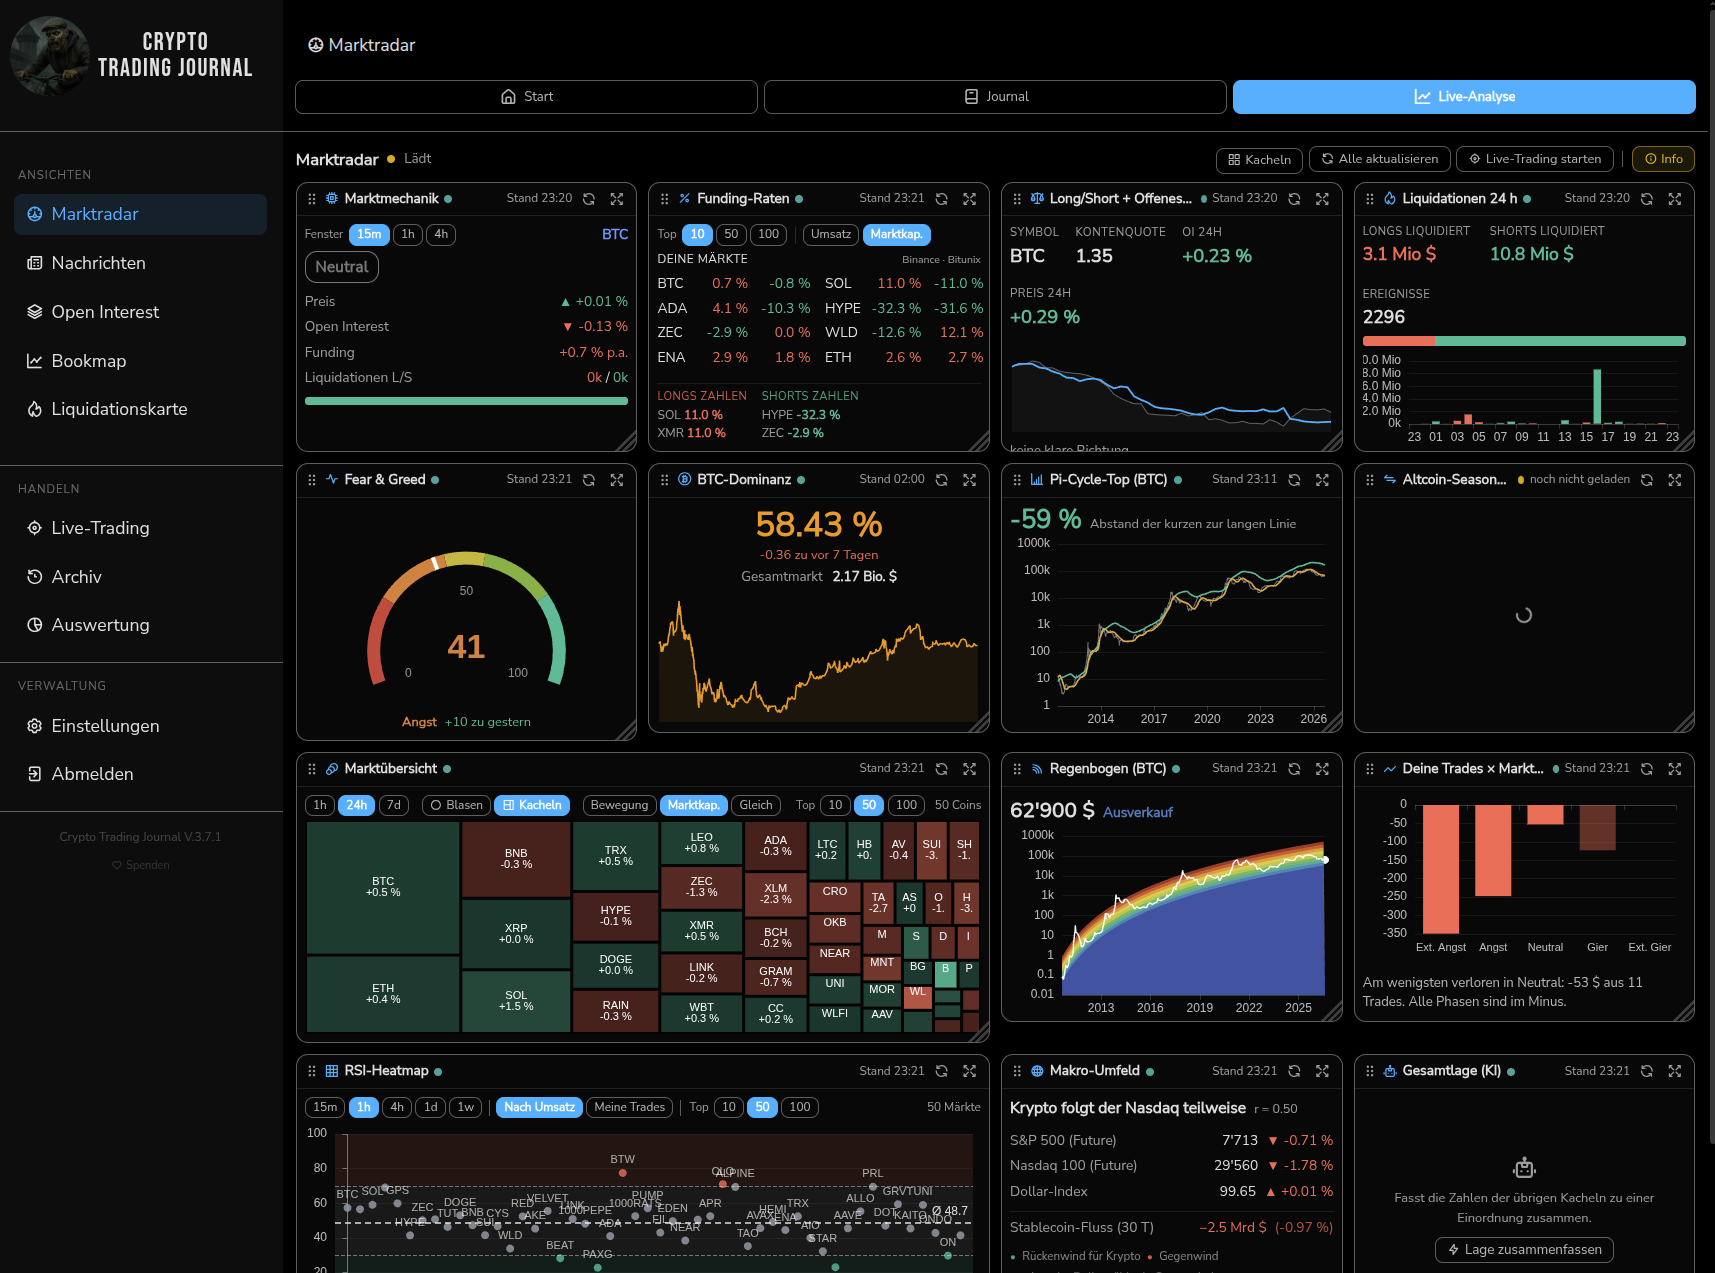
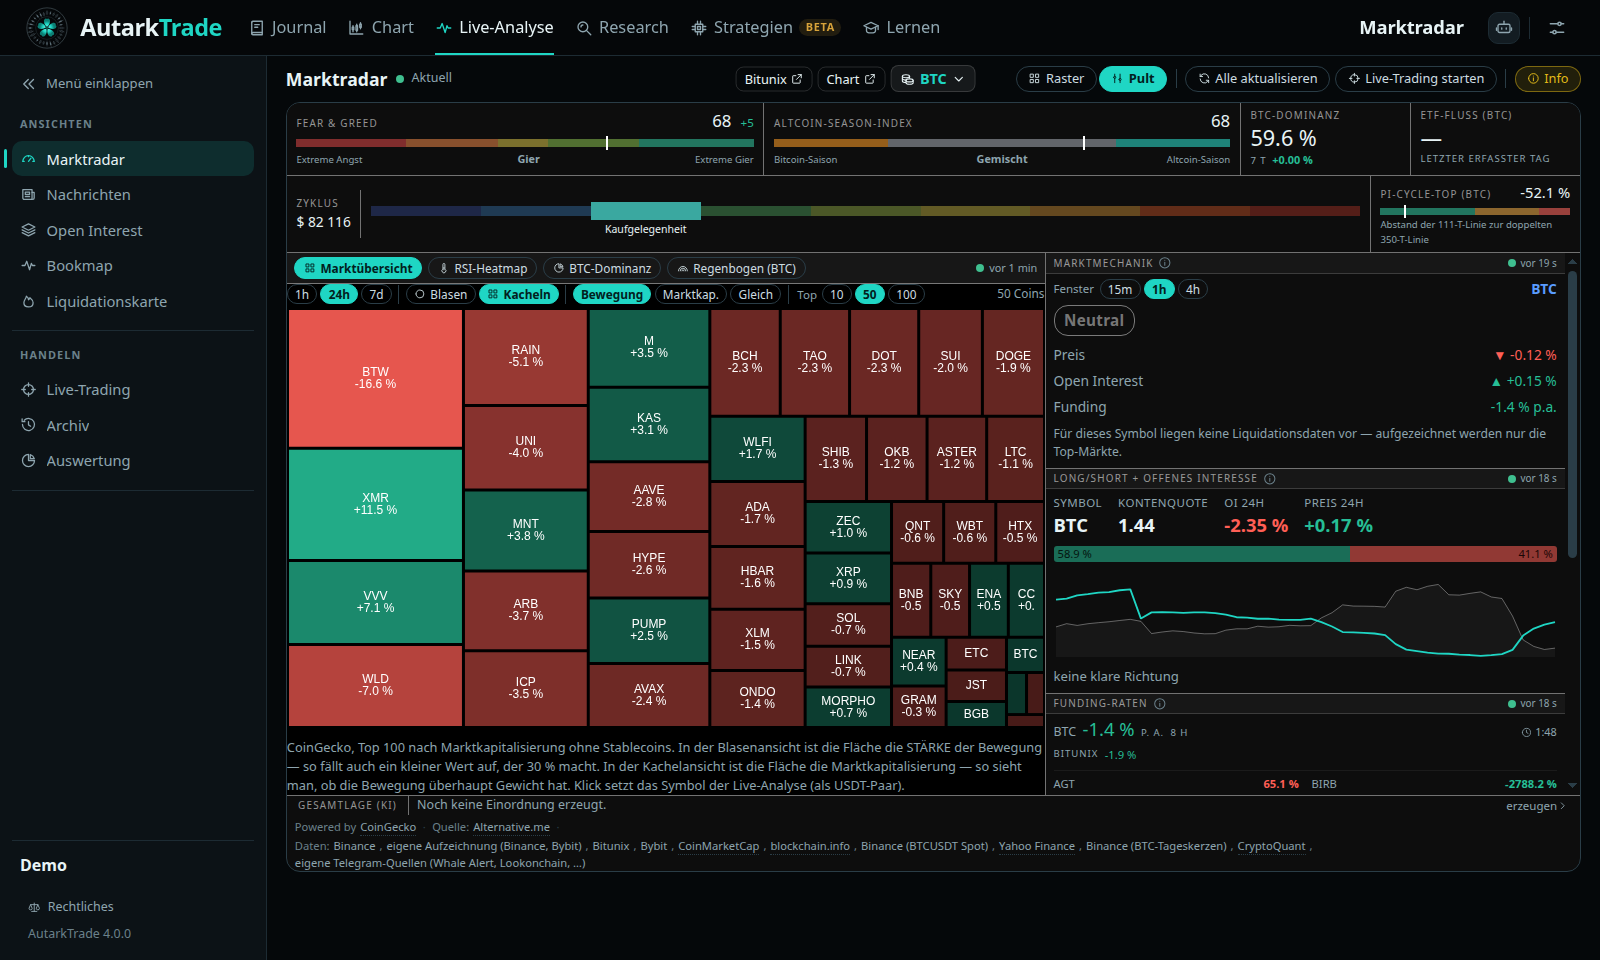
README: neue Screenshots aus einer Demo-Installation (synthetische Trades)
Chart-Arbeitsplatz, Journal-Dashboard, Marktradar, Kalender und zwei
Handy-Ansichten; erzeugt in einem Wegwerf-Container mit SQLite und den
Tageszeilen des Golden Masters — keine echten Kontodaten.

diff --git a/README.md b/README.md
@@ -17,15 +17,20 @@ Vue 3 + Express, SQLite or PostgreSQL.
 
 ## Screenshots
 
-![Dashboard — P&L overview, win rate, fees](assets/screenshots/dashboard.png)
+*All screenshots show a demo installation with synthetic trades — no real account data.*
 
-![Trading performance charts with MFE analysis](assets/screenshots/performance.png)
+![Chart workspace — coin tabs, VWAP Vector, Momentum Radar, watchlist and indicator switches](assets/screenshots/chart.png)
 
-![Marktradar — live market tiles: Fear & Greed, funding rates, liquidations](assets/screenshots/marktradar.png)
+![Journal dashboard — P&L, win rate, fees, cumulative P&L](assets/screenshots/dashboard.png)
 
-![Live trading window — bookmap, liquidation map, session plan](assets/screenshots/livetrading.png)
+![Marktradar — Fear & Greed, altcoin season, market overview, market mechanics, funding](assets/screenshots/marktradar.png)
 
-![Incoming positions — live position monitoring with SL/TP protocol](assets/screenshots/incoming.png)
+![Calendar — daily results](assets/screenshots/kalender.png)
+
+<p>
+  <img src="assets/screenshots/mobil-chart.png" alt="Chart on the phone" width="260">
+  <img src="assets/screenshots/mobil-vollbild.png" alt="Phone full screen — swipe in the Momentum Radar" width="260">
+</p>
 
 ---
 
